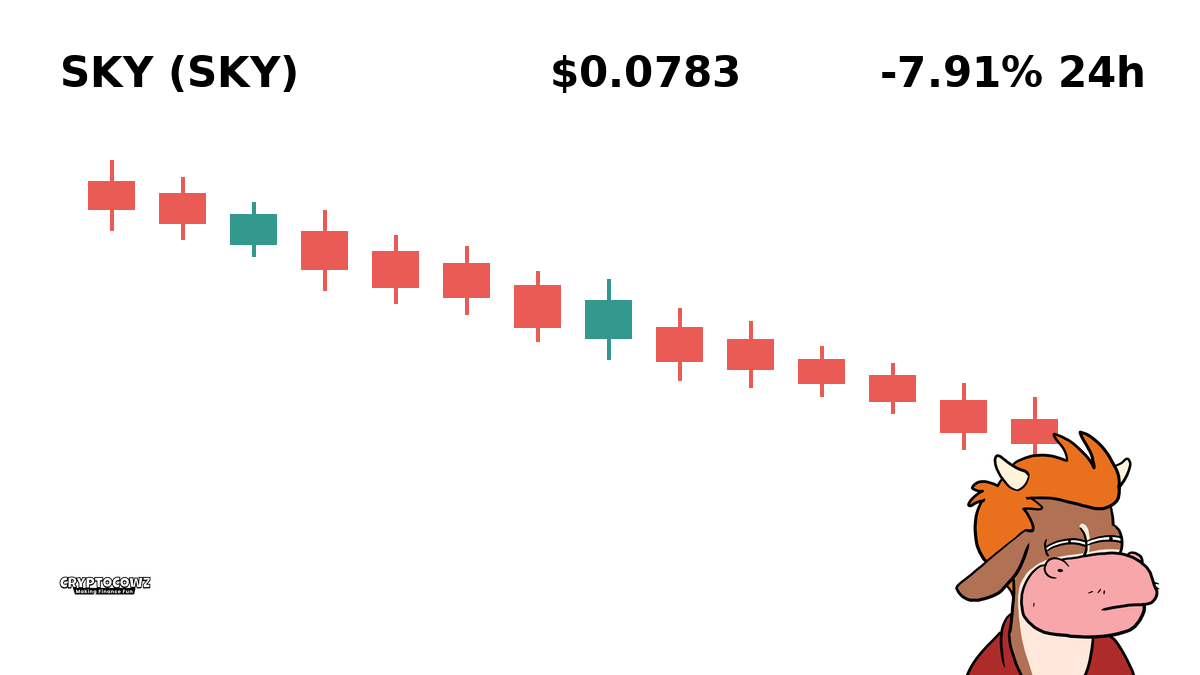
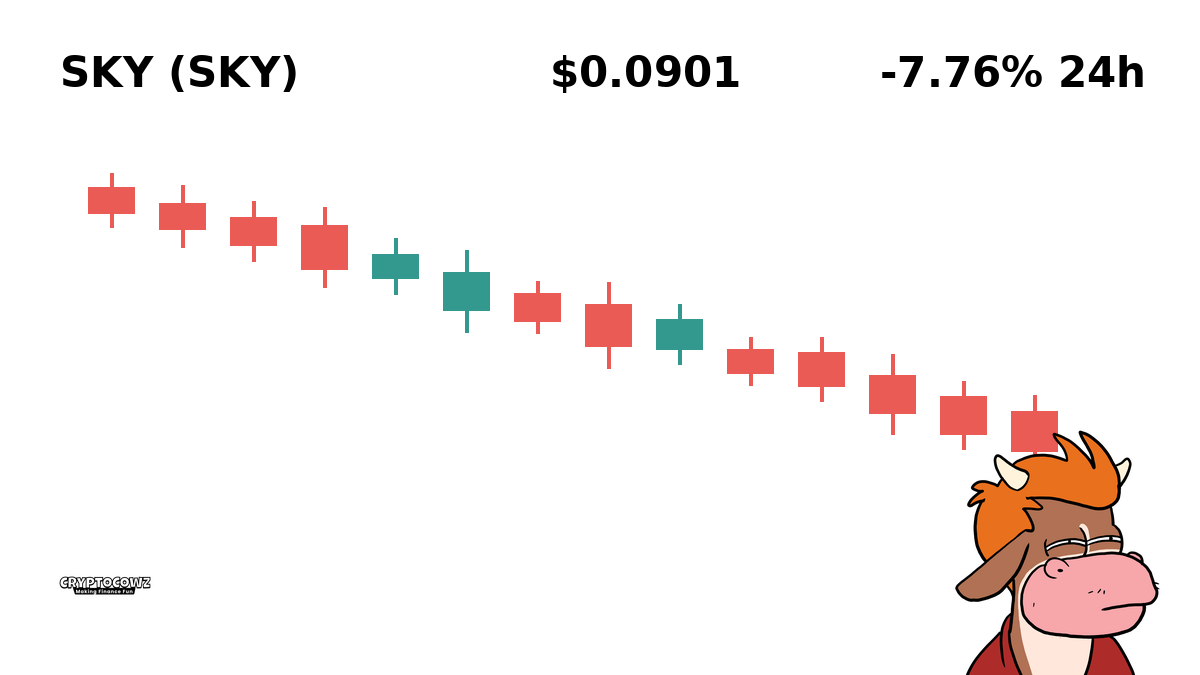
Auto-generate daily 10 CMC graphics & cleanup old images [skip ci]

diff --git a/output/cmc_prompts_latest.md b/output/cmc_prompts_latest.md
@@ -1,81 +1,81 @@
 # Daily Top Movers: CMC Community Visuals & Posts
 
-## 1. Pump.fun ($PUMP) — +12.5% (PUMP)
-**Cast Member:** Frank Rizzo
-**CMC Comment:** Just refinanced my mom's barn to ape into PUMP because the green candle looked deeply personal. We're either buying matching yachts or eating hay until 2030.
+## 1. Filecoin ($FIL) — +11.63% (PUMP)
+**Cast Member:** Skip Zinfandel
+**CMC Comment:** Up 11%! I just uploaded my entire hard drive to Filecoin so I can store my future yacht receipts in the decentralized cloud!
 
-![PUMP Graphic](images/01_PUMP_PUMP.png)
+![FIL Graphic](images/01_PUMP_FIL.png)
 
 ---
 
-## 2. Rain ($RAIN) — +12.39% (PUMP)
+## 2. Midnight ($NIGHT) — +10.93% (PUMP)
 **Cast Member:** Sunshine Innocent Nimbus
-**CMC Comment:** It's raining gains and my third eye is practically soaking in financial freedom! Time to harvest this divine abundance and buy a golden pasture.
+**CMC Comment:** Midnight is pumping! The darkness is finally bringing us true financial enlightenment and a very shiny moonlit pasture!
 
-![RAIN Graphic](images/02_PUMP_RAIN.png)
-
----
-
-## 3. Aerodrome Finance ($AERO) — +8.14% (PUMP)
-**Cast Member:** Professor Hartmut
-**CMC Comment:** Mathematically speaking, this pump defies traditional liquidity dynamics, yet my portfolio is up so I shall suspend my scientific skepticism.
-
-![AERO Graphic](images/03_PUMP_AERO.png)
+![NIGHT Graphic](images/02_PUMP_NIGHT.png)
 
 ---
 
-## 4. Akedo ($AKE) — +7.93% (PUMP)
-**Cast Member:** Skip Zinfandel
-**CMC Comment:** Akedo is rocketing and I've already ordered three custom velvet suits for the victory lap. Tell the hater cows to stay in the mud!
-
-![AKE Graphic](images/04_PUMP_AKE.png)
-
----
-
-## 5. Sui ($SUI) — +5.95% (PUMP)
-**Cast Member:** Skip Zinfandel
-**CMC Comment:** Sui moving up like a fine vintage Cabernet after a good harvest season. Smells like unearned wealth and pure triumph, baby!
-
-![SUI Graphic](images/05_PUMP_SUI.png)
-
----
-
-## 6. Injective ($INJ) — -2.54% (DUMP)
+## 3. Lighter ($LIT) — +9.66% (PUMP)
 **Cast Member:** Frank Rizzo
-**CMC Comment:** Down on INJ and my local butcher is looking at me funny. Guess I'm sleeping in the trailer again tonight.
+**CMC Comment:** Lighter is up almost 10%! I am setting fire to my day job right now, my boss can keep the cubicle!
 
-![INJ Graphic](images/06_DUMP_INJ.png)
+![LIT Graphic](images/03_PUMP_LIT.png)
 
 ---
 
-## 7. Worldcoin ($WLD) — -3.0% (DUMP)
+## 4. Cardano ($ADA) — +6.93% (PUMP)
 **Cast Member:** Professor Hartmut
-**CMC Comment:** Scanned my iris for this token and all I got was a loss and a slight twitch in my left cornea. Fascinating social experiment in regret.
+**CMC Comment:** A 6.9% increase in Cardano suggests peer-reviewed green candles are finally statistical realities. I shall celebrate with extra oats.
 
-![WLD Graphic](images/07_DUMP_WLD.png)
+![ADA Graphic](images/04_PUMP_ADA.png)
 
 ---
 
-## 8. Midnight ($NIGHT) — -3.71% (DUMP)
+## 5. LayerZero ($ZRO) — +6.06% (PUMP)
+**Cast Member:** Skip Zinfandel
+**CMC Comment:** LayerZero bridged me straight into generational wealth today! Moving assets across chains faster than my ex-wife moved her clothes out.
+
+![ZRO Graphic](images/05_PUMP_ZRO.png)
+
+---
+
+## 6. Algorand ($ALGO) — -3.36% (DUMP)
+**Cast Member:** Frank Rizzo
+**CMC Comment:** Down 3.3%? Algorand is proof-of-stake? More like proof-of-holding-a-heavy-bag while crying in my truck!
+
+![ALGO Graphic](images/06_DUMP_ALGO.png)
+
+---
+
+## 7. Stacks ($STX) — -3.69% (DUMP)
+**Cast Member:** Professor Hartmut
+**CMC Comment:** The empirical evidence indicates Stacks is stacking losses today. My portfolio model requires immediate quantitative coping.
+
+![STX Graphic](images/07_DUMP_STX.png)
+
+---
+
+## 8. Venice Token ($VVV) — -3.74% (DUMP)
 **Cast Member:** Sunshine Innocent Nimbus
-**CMC Comment:** Midnight is fading into darkness, but every moonless night just makes room for the spiritual glow of holding forever! Blessed are the bagholders.
+**CMC Comment:** Venice Token is sinking faster than the real city! But do not worry, gondolas always float back up eventually right?
 
-![NIGHT Graphic](images/08_DUMP_NIGHT.png)
+![VVV Graphic](images/08_DUMP_VVV.png)
 
 ---
 
-## 9. LayerZero ($ZRO) — -5.77% (DUMP)
+## 9. Sky ($SKY) — -7.76% (DUMP)
 **Cast Member:** Skip Zinfandel
-**CMC Comment:** LayerZero? More like Layer Hero-to-Zero in 24 hours flat. My financial advisor is currently ignoring my calls from the country club.
+**CMC Comment:** Sky took a nosebleed plunge down nearly 8%! Turns out the sky was not the limit, it was just the altitude where my parachute failed.
 
-![ZRO Graphic](images/09_DUMP_ZRO.png)
+![SKY Graphic](images/09_DUMP_SKY.png)
 
 ---
 
-## 10. Bitway ($BTW) — -18.48% (DUMP)
+## 10. Akedo ($AKE) — -9.88% (DUMP)
 **Cast Member:** Frank Rizzo
-**CMC Comment:** Minus eighteen percent on Bitway... By the way, does anyone know if pasture grass is technically digestible for humans?
+**CMC Comment:** Down 10%! Akedo played us like a cheap arcade machine and stole my last quarter without even giving me a retry!
 
-![BTW Graphic](images/10_DUMP_BTW.png)
+![AKE Graphic](images/10_DUMP_AKE.png)
 
 ---
